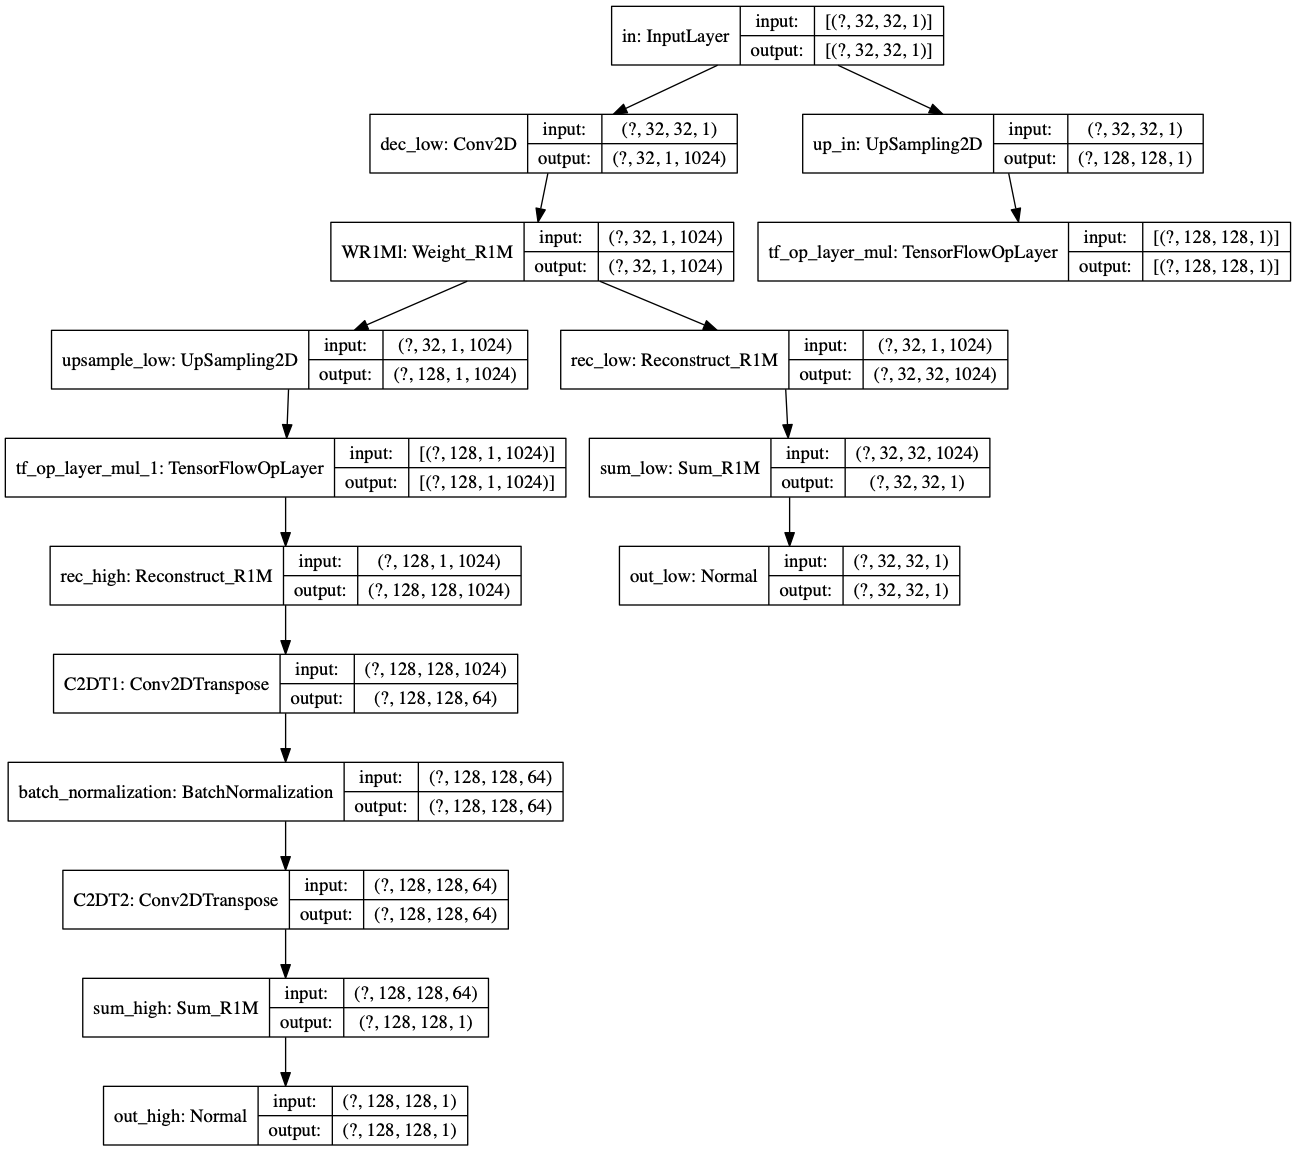
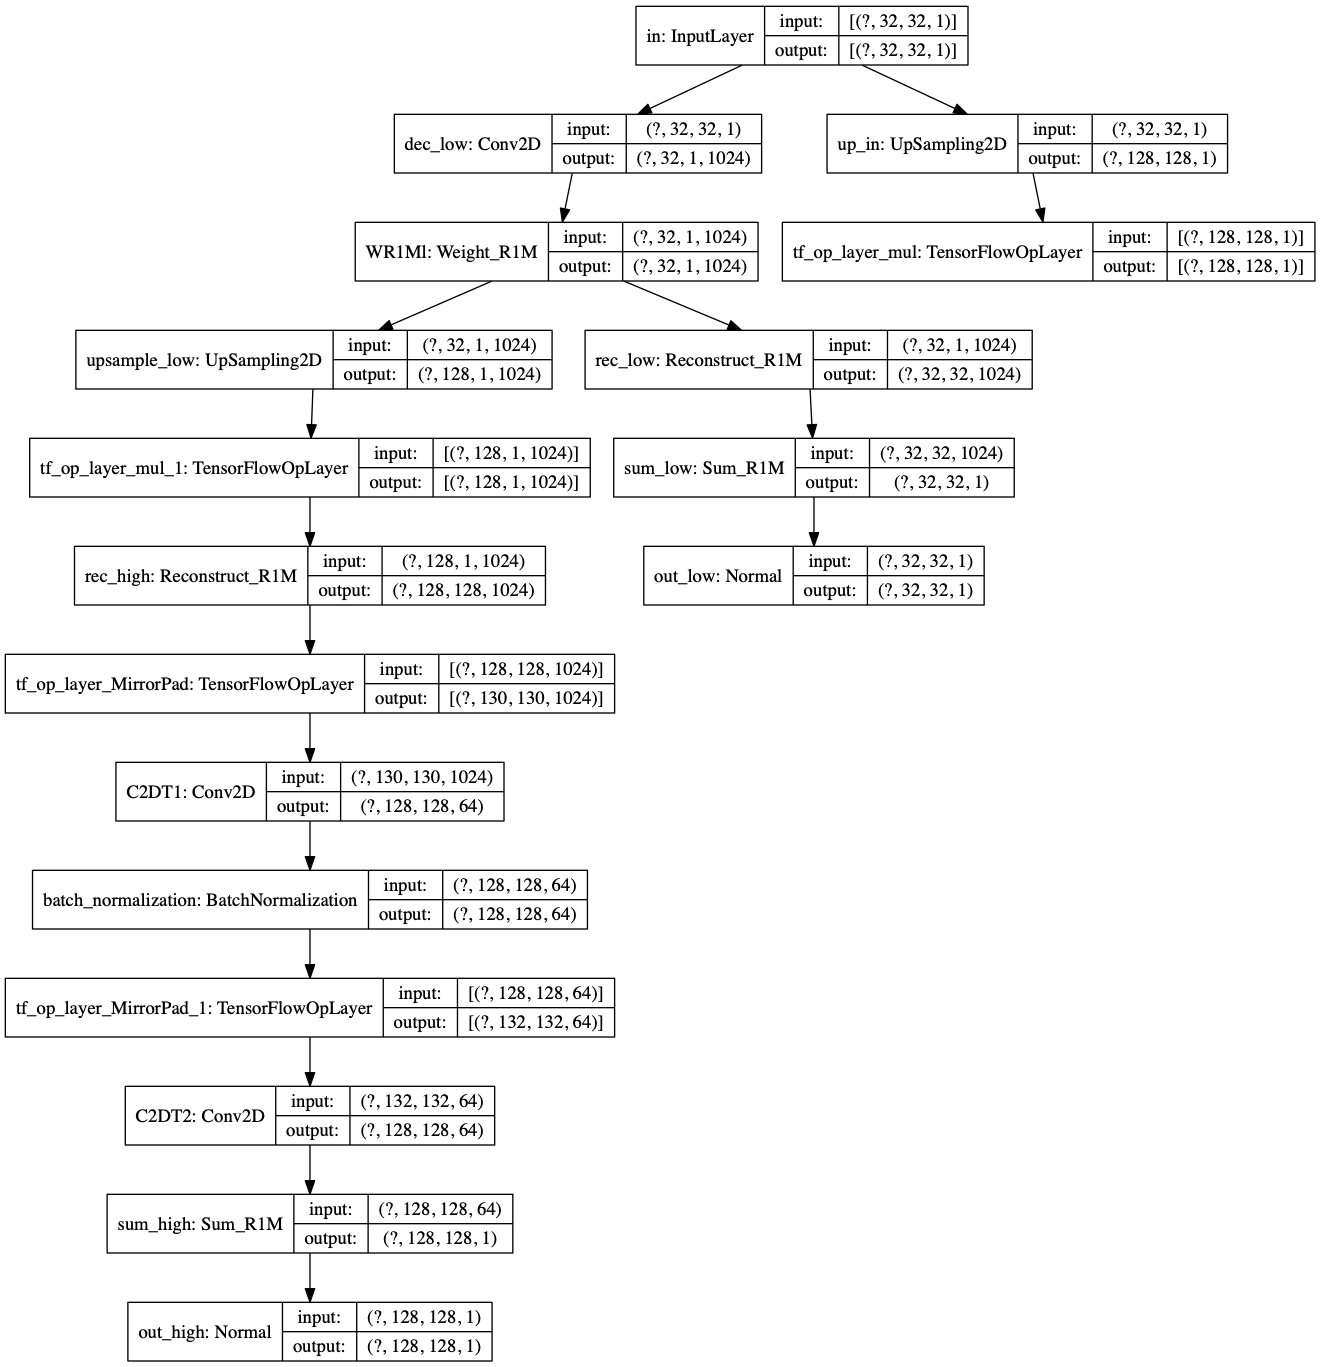
update generator

Changed region(s): [[0.0, 0.0, 1.0, 1.0]]

diff --git a/model.py b/model.py
@@ -110,17 +110,21 @@ def make_generator_model(len_low_size=16, scale=4):
     m_F = tf.constant(1/4.0, shape=(1, 1, 1, 1))
     up_1 = tf.keras.layers.Multiply(name='scale_value_high')([up_1, m_F])
     Rech = Reconstruct_R1M(1024, name='rec_high')(up_1)
-    trans_1 = tf.keras.layers.Conv2DTranspose(  filters=64, kernel_size=(3,3),
-                                                strides=(1,1), padding='same',
+    paddings = tf.constant([[0,0],[1, 1], [1, 1], [0,0]])
+    Rech = tf.pad(Rech, paddings, "SYMMETRIC")
+    trans_1 = tf.keras.layers.Conv2D(  filters=64, kernel_size=(3,3),
+                                                strides=(1,1), padding='valid',
                                                 data_format="channels_last",
                                                 kernel_constraint=symmetry_constraints(), 
                                                 activation='relu', use_bias=False, name='C2DT1')(Rech)
     batchnorm_1 = tf.keras.layers.BatchNormalization()(trans_1)
-    trans_2 = tf.keras.layers.Conv2DTranspose(  filters=64, kernel_size=(5,5),
-                                                strides=(1,1), padding='same',
+    paddings = tf.constant([[0,0],[2, 2], [2, 2], [0,0]])
+    batchnorm_1 = tf.pad(batchnorm_1, paddings, "SYMMETRIC")
+    trans_2 = tf.keras.layers.Conv2D(  filters=64, kernel_size=(5,5),
+                                                strides=(1,1), padding='valid',
                                                 data_format="channels_last",
                                                 kernel_constraint=symmetry_constraints(),
-                                                activation='relu', use_bias=True, name='C2DT2')(batchnorm_1)
+                                                activation='relu', use_bias=False, name='C2DT2')(batchnorm_1)
     
     Sumh = Sum_R1M(name='sum_high')(trans_2)
     high_out = Normal(int(len_low_size*scale), name='out_high')(Sumh)
